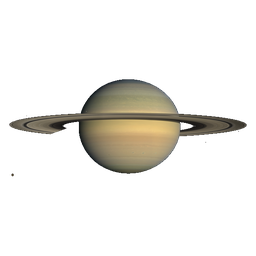
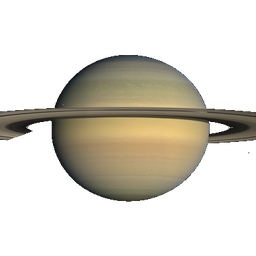
Saturno ya no eclipsa al Sol
Lo cazó el usuario y era cierto: medido en pantalla, los anillos salían a
24,2 px de radio contra 11,6 del Sol — más del doble.

La causa es de fondo. En la escala logarítmica el Sol quedaba a solo 1,23x
del CUERPO de Saturno, mientras que en la foto los anillos miden 2,5x ese
cuerpo (proporción correcta: los anillos reales son ~2,3x). Con esa
compresión, CUALQUIER anillo visible superaba al Sol.

Corregido por los dos lados:
- La textura web de Saturno se recorta a 1,75x su cuerpo: los anillos
  siguen leyéndose, sin las puntas. El original de assets/planets/ queda
  intacto, que es el que usan las infografías, donde sí caben enteros.
- El Sol sube a 0.044. Vuelve a ser el mayor objeto de la rueda, como
  corresponde.

Queda: Sol 18,5 px · Saturno con anillos 16,5 · Júpiter 9,6 · Tierra 7,5 ·
Mercurio 6,7. El orden es el real.

natal-chart.js sube a ?v=24.

Changed region(s): [[0.0, 0.1875, 1.0, 0.8125], [0.5625, 0.5312, 0.5938, 0.5625], [0.0312, 0.6562, 0.0625, 0.6875]]

diff --git a/js/natal-chart.js b/js/natal-chart.js
@@ -143,7 +143,7 @@
   // mayor que la Tierra, la Tierra mayor que Marte— dentro de un rango
   // dibujable. Fracción de `size`.
   var BODY_R = {
-    Sun:0.0275, Jupiter:0.0228, Saturn:0.0224, Uranus:0.0207, Neptune:0.0207,
+    Sun:0.0440, Jupiter:0.0228, Saturn:0.0224, Uranus:0.0207, Neptune:0.0207,
     Earth:0.0179, Venus:0.0178, Mars:0.0166, Mercury:0.0160, Moon:0.0153,
     Pluto:0.0145
   };
@@ -151,7 +151,12 @@
   // anillos ocupan el ancho y el cuerpo solo ~1/3 del alto, así que al
   // encajarlo como los demás el planeta salía diminuto. Con 2.8 el CUERPO
   // mide como el resto y los anillos sobresalen, que es lo correcto.
-  var TEX_BOX = { Saturn: 2.8 };
+  // 2026-08-06 (user: "¿Saturno no está más grande que el Sol?" — lo estaba,
+  // 24px de anillos contra 11,6 del Sol). Dos correcciones: la textura web de
+  // Saturno se recortó a 1.75x su cuerpo (anillos visibles, sin las puntas) y
+  // el Sol subió a 0.044. En escala logarítmica el Sol quedaba a solo 1.23x
+  // del cuerpo de Saturno, así que CUALQUIER anillo visible lo superaba.
+  var TEX_BOX = { Saturn: 1.75 };
 
   var _tex = {};           // nombre → HTMLImageElement
   var _texBase = '/assets/planets/';

diff --git a/sw.js b/sw.js
@@ -185,7 +185,7 @@
 // Add Profile sheet 400ms after hydrate — Compat's "Agregar otro
 // perfil" CTA now uses it, collapsing a 3-tap flow (Compat → Inicio
 // → scroll → + Agregar perfil) to 1 tap. (3) Scripts bumped:
-// transits.js?v=2, natal-chart.js?v=23.
+// transits.js?v=2, natal-chart.js?v=24.
 // v58 → v59 (Apr 19 p15.1): ROOT CAUSE of "no puedo guardar perfil"
 // finally found. #le-tabs (the PWA bottom-tabs bar) is fixed-positioned
 // at z-index 9999 — the Add Profile modal sheet was at z-index 81.
@@ -331,7 +331,7 @@
 // v82 → v83 (Ago 6): nueva /en/offline.html. La pagina de respaldo sin
 // conexion era unica y estaba en espanol, asi que un lector bajo /en/ veia
 // "Sin conexion". Ahora la rama de navegacion elige segun la ruta.
-const CACHE_NAME = 'luzestelar-v92';
+const CACHE_NAME = 'luzestelar-v93';
 const OFFLINE_URL = '/offline.html';
 // English readers used to fall back to the Spanish offline page — it is the
 // fallback for the whole site, so /en/ visitors got "Sin conexión".

diff --git a/compatibilidad-personal.html b/compatibilidad-personal.html
@@ -1057,7 +1057,7 @@ body{
      .findAspects inside renderResults(). -->
 <script src="/js/transits.js?v=3"></script>
 <script src="/js/astro-glyphs.js?v=2"></script>
-<script src="/js/natal-chart.js?v=23"></script>
+<script src="/js/natal-chart.js?v=24"></script>
 <script src="/js/icons.js" defer></script>
 <script src="/js/toast.js" defer></script>
 <script src="/js/sw-update.js" defer></script>

diff --git a/en/compatibility-personal.html b/en/compatibility-personal.html
@@ -1057,7 +1057,7 @@ body{
      .findAspects inside renderResults(). -->
 <script src="/js/transits.js?v=3"></script>
 <script src="/js/astro-glyphs.js?v=2"></script>
-<script src="/js/natal-chart.js?v=23"></script>
+<script src="/js/natal-chart.js?v=24"></script>
 <script src="/js/icons.js" defer></script>
 <script src="/js/toast.js" defer></script>
 <script src="/js/sw-update.js" defer></script>

diff --git a/mi-dia.html b/mi-dia.html
@@ -980,7 +980,7 @@ body.modal-open #le-tabs{display:none !important}
      device instead of waiting for the cache window to expire. -->
 <script src="/js/transits.js?v=3"></script>
 <script src="/js/astro-glyphs.js?v=2"></script>
-<script src="/js/natal-chart.js?v=23"></script>
+<script src="/js/natal-chart.js?v=24"></script>
 <script src="/js/share-card.js?v=10"></script>
 <script>
 (function(){

diff --git a/en/my-day.html b/en/my-day.html
@@ -770,7 +770,7 @@ body.modal-open #le-tabs{display:none !important}
 <script src="/js/cross-cultural.js"></script>
 <script src="/js/transits.js?v=3"></script>
 <script src="/js/astro-glyphs.js?v=2"></script>
-<script src="/js/natal-chart.js?v=23"></script>
+<script src="/js/natal-chart.js?v=24"></script>
 <script src="/js/share-card.js?v=10"></script>
 <script>
 (function(){
